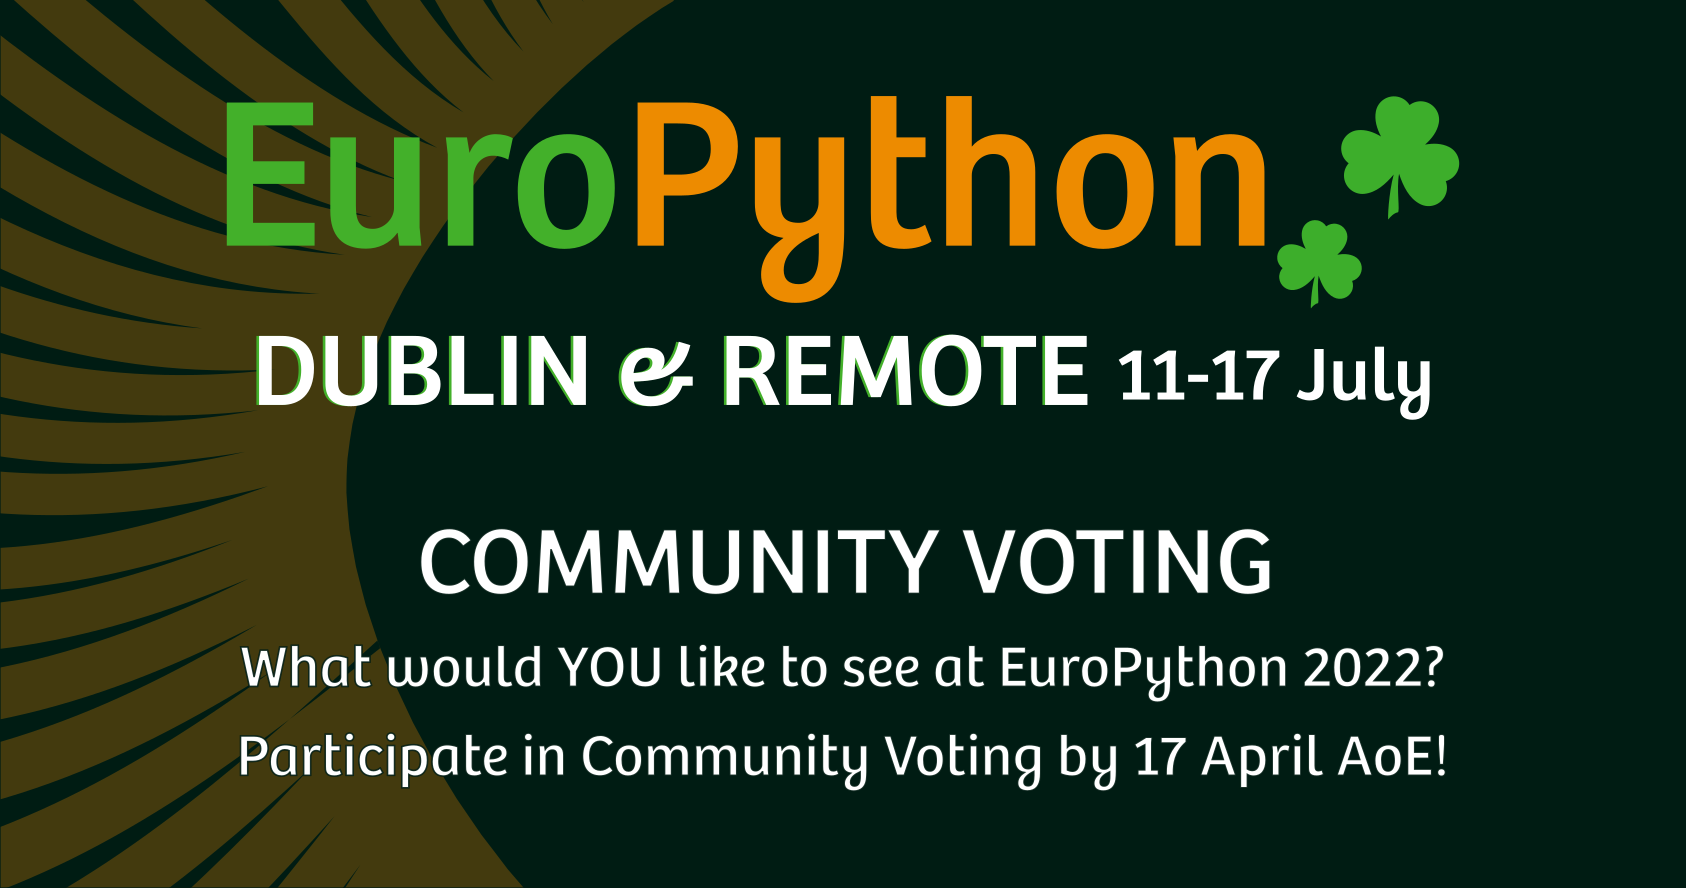
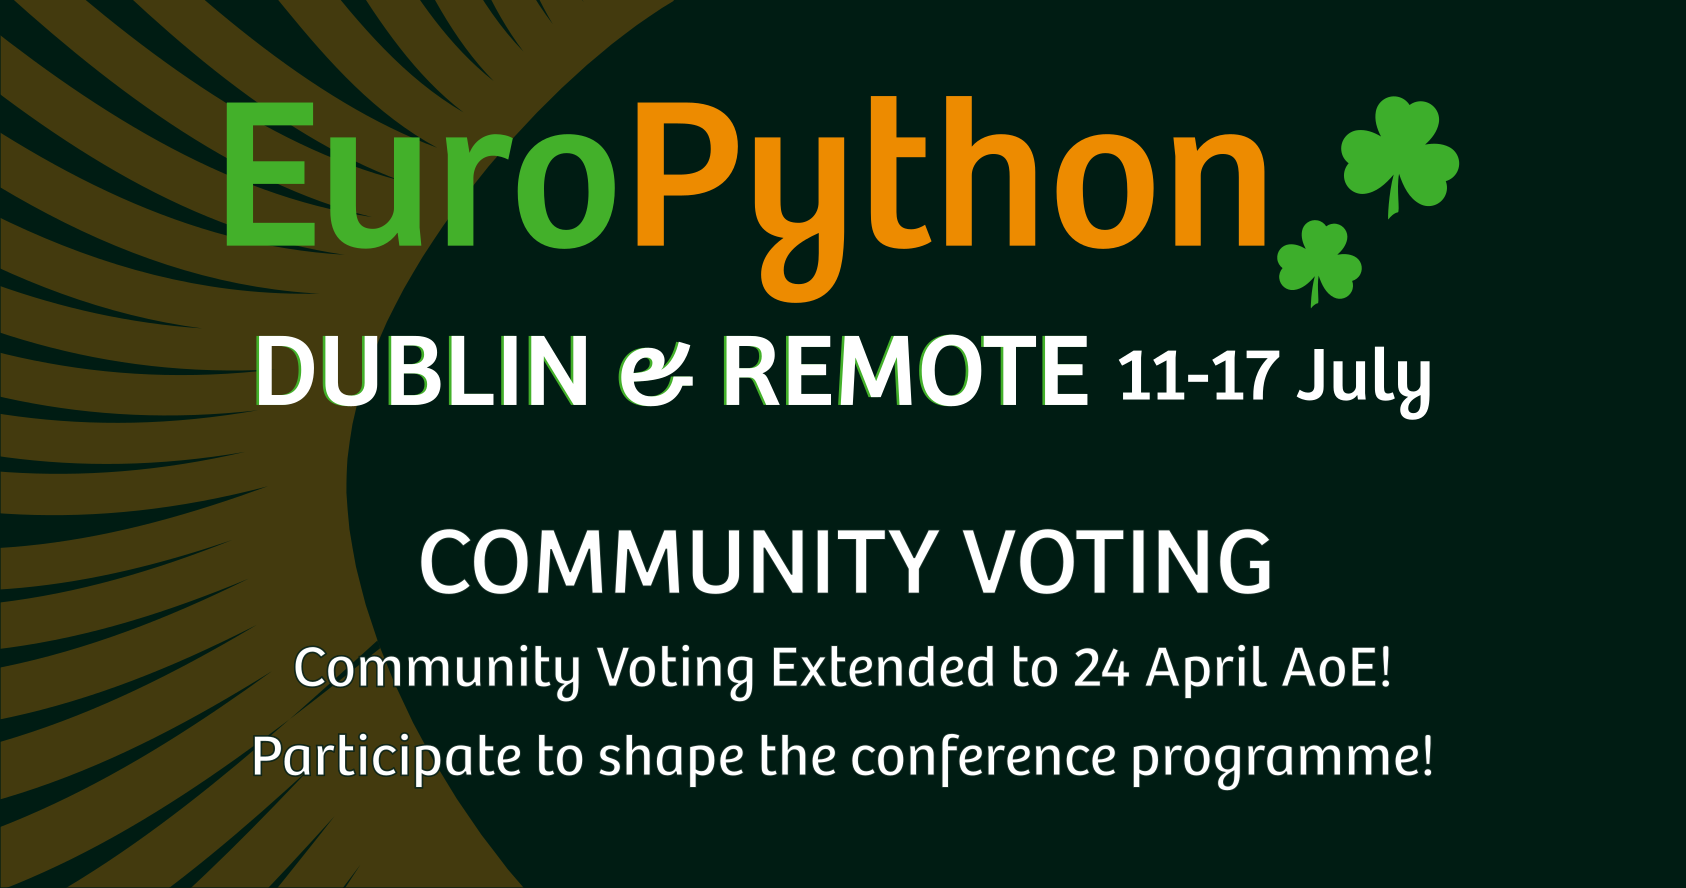
community voting extension

Changed region(s): [[0.1234, 0.8209, 0.8636, 0.9122], [0.1234, 0.7297, 0.8636, 0.7905]]

diff --git a/data/voting.md b/data/voting.md
@@ -2,13 +2,15 @@
 
 Welcome to EuroPython Community Voting! We want feedback about what YOU would like to see at EuroPython 2022. We have over 400 proposals covering many aspects of Python, and we are excited to be putting together an engaging, educational and entertaining programme.  Your feedback is an important ingredient in this refinement and curation process.
 
+
+
+<Note style={{textAlign: "center"}}>Community Voting Extended:</Note>
+
 <div style={{textAlign: "center"}}>
 
-Community Voting will run for seven days from
+from Monday, 11 April 13:00:00 CEST to
 
-**Monday, 11 April 13:00:00 CEST** to
-
-**Sunday, 17th April 23:59:59 [AoE](https://en.wikipedia.org/wiki/Anywhere_on_Earth)**
+**Sunday, 24th April 23:59:59 [AoE](https://en.wikipedia.org/wiki/Anywhere_on_Earth)**
 
 </div>
 <div style={{textAlign: "center"}}>

diff --git a/data/faq.md b/data/faq.md
@@ -29,9 +29,9 @@ time.
 </ul>
 <ul className="milestone-todo">
   <li><b>2022-04-11</b>: Community Talk Voting Starts </li>
-  <li><b>The Week of 2022-04-11</b>: <a href="https://forms.gle/d7iYzGtAuu3fA25A8">Panel Talk Review </a> Starts </li>
-  <li><b>2022-04-17</b>: Community Talk Voting Ends </li>
-  <li><b>The week of 2022-04-20</b>: Panel Talk Review Ends</li>
+  <li><b>2022-04-18</b>: Panel Talk Review Starts </li>
+  <li><b>2022-04-24</b>: Community Talk Voting Ends </li>
+  <li><b>2022-04-25</b>: Panel Talk Review Ends </li>
   <li><b>2022-04-29</b>: Sponsorship Early Bird Discount Ends</li>
   <li><b>The Week of 2022-04-25</b>: First Acceptance Notices to Speakers</li>
   <li><b>The Week of 2022-05-09</b>: Second Acceptance Notices to Speakers</li>

diff --git a/data/deadlines/02_voting.md b/data/deadlines/02_voting.md
@@ -1,0 +1,8 @@
+---
+title: Community Voting Extended
+subtitle: Extended until 24 April AoE
+url: /voting
+image: /images/cards/finaid.jpg
+---
+
+Tell us what YOU want to see at EuroPython 2022! Participate in community voting, and shape the conference programme with YOUR voice !
